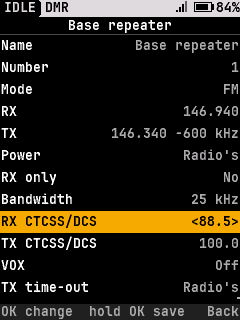
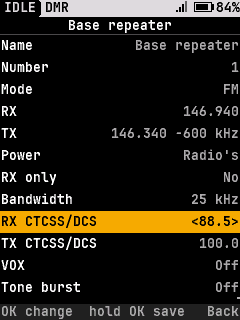
FM channels: a per-channel 1750 Hz tone burst (#462)
A per-channel option for the 1750 Hz tone burst, for FM repeaters that
open on it (#399). With **Tone burst** on, each PTT key-up on that
channel starts with a 1 s burst, then the mic. With it off, the channel
behaves as before. The side key from #417 still works on any FM channel.

## What changed

- **Codeplug:** bit 6 of SFR byte B (0x2A) in the channel record. It is
read and written without the SFR flag, so it doesn't disturb SFR
channels.
- **Radio:** `channel_burst()` runs on the first key-up of a TX. It
skips VFO, DMR, hotspot mode, a board with no `tx_tone`, or a burst
already running. Releasing PTT during the burst unkeys. If the radio
refuses the tone, it plays the error beep and TX continues.
- **Menu:** a **Tone burst** On/Off row under VOX on FM channels, behind
`CONFIG_FM_TX_TONES`. The gallery PNG for the screen is updated.
- **Web editor:** a "1750 Hz Tone Burst" checkbox, plus CSV, the qdmr
export note, and the stock importers.
- **Debug link:** `ch.tone_burst` in the view.
- **Docs:** radio-features 3.3, open-firmware-cps 7.3.3 and 9, and user
pages 04, 07, 08 and 17.
- **Translations:** es and it, for the radio and the site.

## Tests

- **Host:** `test_channel_burst` covers off by default, the burst and
then the mic, one burst per key-up, release during the burst, a refused
tone (one error beep), and never on DMR. A codeplug round trip keeps the
SFR bits.
- **Site:** 609 pass, 0 fail.
[…]

Changed region(s): [[0.0292, 0.875, 0.3792, 0.9375], [0.7583, 0.875, 0.9917, 0.9375]]

diff --git a/site/static/js/codeplug/model.js b/site/static/js/codeplug/model.js
@@ -124,7 +124,7 @@ function same(a, b, keys) {
 const CHANNEL_KEYS = [
 	"name", "rxHz", "txHz", "mode", "power", "tot", "rxTone", "txTone", "bw", "rxOnly", "allSkip", "zoneSkip", "vox",
 	"squelch", "colorCode", "timeslot", "contact", "rxList", "aprs", "dmrId", "noBeep", "noEco", "dmo", "roam",
-	"aliasTs1", "aliasTs2", "useLocation", "lat", "lon", "sfr", "sfrA", "sfrB",
+	"aliasTs1", "aliasTs2", "useLocation", "lat", "lon", "sfr", "sfrA", "sfrB", "toneBurst",
 ];
 
 function flatChannel(c) {
@@ -240,7 +240,7 @@ export function newChannel(fields = {}) {
 		txTone: "", bw: 12.5, rxOnly: false, allSkip: false, zoneSkip: false, vox: false, squelch: 0, colorCode: 1,
 		timeslot: 1, contact: null, rxList: null, aprs: null, dmrId: 0, noBeep: false, noEco: false, dmo: false,
 		roam: false, aliasTs1: 0, aliasTs2: 0, useLocation: false, lat: 0, lon: 0, sfr: false, sfrA: 0, sfrB: 0,
-		...fields,
+		toneBurst: false, ...fields,
 	};
 }
 

diff --git a/site/static/js/codeplug/qdmr.js b/site/static/js/codeplug/qdmr.js
@@ -277,7 +277,7 @@ export function importQdmr(m, yamlText) {
 			rxList: null, aprs: null, dmrId: 0, noBeep: o.beep === false, noEco: o.powerSave === false, dmo: false,
 			roam: false, aliasTs1: Math.max(0, ALIAS.indexOf(text(o.talkerAliasTS1))),
 			aliasTs2: Math.max(0, ALIAS.indexOf(text(o.talkerAliasTS2))), useLocation: !!loc, lat: loc ? loc.lat : 0,
-			lon: loc ? loc.lon : 0, sfr: false, sfrA: 0, sfrB: 0,
+			lon: loc ? loc.lon : 0, sfr: false, sfrA: 0, sfrB: 0, toneBurst: false,
 		};
 		if (v.scanList != null) note("scan_lists");
 		if (dmr) {
@@ -413,6 +413,7 @@ export function exportQdmr(m) {
 		};
 		if (c.useLocation) note("location_rounded");
 		if (c.sfr || c.sfrA || c.sfrB) note("sfr");
+		if (c.toneBurst && c.mode !== "dmr") note("tone_burst");
 		const powerName = Object.keys(POWER).find((k) => POWER[k] === c.power);
 		if (c.power && !powerName) note("power_level");
 		const common = {

diff --git a/site/static/js/codeplug/records.js b/site/static/js/codeplug/records.js
@@ -95,7 +95,8 @@ export function decodeChannel(r) {
 		lon: getCoord(r[0x24], r[0x1F], r[0x1E]),
 		sfr: (l1 & 0x02) !== 0,
 		sfrA: r[0x25],
-		sfrB: r[0x2A],
+		sfrB: r[0x2A] & ~0x40,
+		toneBurst: r[0x2A] !== 0xFF && (r[0x2A] & 0x40) !== 0,	// FM: SFR byte B bit 6, read without the SFR flag (7.3.3); 0xFF = not set
 	};
 }
 
@@ -139,7 +140,8 @@ export function encodeChannel(c, r) {
 		r[0x24] = oh; r[0x1F] = om; r[0x1E] = ol;
 	}
 	r[0x25] = c.sfrA & 0xFF;
-	r[0x2A] = c.sfrB & 0xFF;
+	r[0x2A] = (c.sfrB & 0xBF) | (c.toneBurst ? 0x40 : 0);
+	if (r[0x2A] === 0xFF) r[0x2A] = 0xCF;	// 0xFF reads as not set: the unused bits 5-4 cleared (as the firmware)
 	return r;
 }
 

diff --git a/site/static/js/editor/views.js b/site/static/js/editor/views.js
@@ -259,6 +259,7 @@ export function channelForm(m, t) {
 		fm(txt("txTone", "editor.col.tx_tone", tone(t), (v) => v)),
 		fm(sel("squelch", "editor.col.squelch", () => [[0, t("editor.squelch.default")], ...[...Array(21).keys()].map((n) => [n + 1, String(n + 1)])])),
 		fm(chk("vox", "editor.col.vox")),
+		fm(chk("toneBurst", "editor.col.tone_burst")),
 		dmr({ group: t("editor.form.digital") }),
 		dmr(sel("colorCode", "editor.col.cc", () => [...Array(16).keys()].map((n) => [n, String(n)]))),
 		dmr(sel("timeslot", "editor.col.ts", () => [[1, "1"], [2, "2"]])),

diff --git a/site/static/js/codeplug/stock_tyt.js b/site/static/js/codeplug/stock_tyt.js
@@ -246,7 +246,7 @@ export function importStock(m, bytes, format) {
 			colorCode: dmr ? c.colorCode : 0, timeslot: dmr ? c.timeslot : 1,
 			contact: dmr ? contactOf.get(c.contact) || null : null, rxList: dmr ? listOf.get(c.rxList) || null : null,
 			aprs: null, dmrId: 0, noBeep: false, noEco: false, dmo: false, roam: false, aliasTs1: 0, aliasTs2: 0,
-			useLocation: false, lat: 0, lon: 0, sfr: false, sfrA: 0, sfrB: 0,
+			useLocation: false, lat: 0, lon: 0, sfr: false, sfrA: 0, sfrB: 0, toneBurst: false,
 		};
 		channelOf.set(c.index, x);
 		return x;

diff --git a/site/static/js/codeplug/stock_baofeng.js b/site/static/js/codeplug/stock_baofeng.js
@@ -274,7 +274,7 @@ export function importStock(m, bytes) {
 			colorCode: dmr ? c.colorCode : 0, timeslot: dmr ? c.timeslot : 1,
 			contact: dmr ? contactOf.get(c.contact) || null : null, rxList: dmr ? listOf.get(c.rxList) || null : null,
 			aprs: null, dmrId: 0, noBeep: false, noEco: false, dmo: false, roam: false, aliasTs1: 0, aliasTs2: 0,
-			useLocation: false, lat: 0, lon: 0, sfr: false, sfrA: 0, sfrB: 0,
+			useLocation: false, lat: 0, lon: 0, sfr: false, sfrA: 0, sfrB: 0, toneBurst: false,
 		};
 		channelOf.set(c.index, x);
 		return x;

diff --git a/site/static/js/codeplug/csv.js b/site/static/js/codeplug/csv.js
@@ -318,6 +318,7 @@ export const TABLES = {
 			c("All Skip", "allSkip", asBool, (r) => yesNo(r.allSkip), ["Scan Skip"]),
 			c("Zone Skip", "zoneSkip", asBool, (r) => yesNo(r.zoneSkip)),
 			c("VOX", "vox", asBool, (r) => yesNo(r.vox)),
+			c("Tone Burst", "toneBurst", asBool, (r) => yesNo(r.toneBurst), ["1750 Hz"]),
 			c("No Beep", "noBeep", asBool, (r) => yesNo(r.noBeep)),
 			c("No Eco", "noEco", asBool, (r) => yesNo(r.noEco)),
 			c("DMO", "dmo", asBool, (r) => yesNo(r.dmo)),

diff --git a/core/ui/ui_menus.c b/core/ui/ui_menus.c
@@ -2273,7 +2273,7 @@ static const ui_scr_def_t chlist_screen = {
 // Without CONFIG_CHANNEL_EDIT the rows are read only and OK goes to the channel
 
 enum { CE_NAME, CE_NUMBER, CE_MODE, CE_RX, CE_TX, CE_POWER, CE_RX_ONLY, CE_BW, CE_RX_TONE, CE_TX_TONE, CE_VOX,
-       CE_CC, CE_TS, CE_CONTACT, CE_LIST, CE_ID, CE_DMO, CE_BEEP, CE_ALIAS1, CE_ALIAS2, CE_TOT, CE_SCAN, CE_ECO,
+       CE_BURST, CE_CC, CE_TS, CE_CONTACT, CE_LIST, CE_ID, CE_DMO, CE_BEEP, CE_ALIAS1, CE_ALIAS2, CE_TOT, CE_SCAN, CE_ECO,
        CE_ZONES, CE_GO, CE_SHARE, CE_SAVE, CE_SAVE_NEW, CE_COUNT, CE_NONE = 0xFF };
 
 static channel_t ced_ch;		// what the screen shows (the working copy when editing)
@@ -2309,6 +2309,7 @@ static const struct { uint8_t off, len, bit; } ced_fields[CE_ZONES] = {
 	[CE_NAME] = CE_FIELD(name), [CE_MODE] = CE_FIELD(mode), [CE_RX] = CE_FIELD(rx_hz), [CE_TX] = CE_FIELD(tx_hz),
 	[CE_POWER] = CE_FIELD(power), [CE_RX_ONLY] = CE_FIELD(rx_only), [CE_BW] = CE_FIELD(bw),
 	[CE_RX_TONE] = CE_FIELD(rx_tone), [CE_TX_TONE] = CE_FIELD(tx_tone), [CE_VOX] = CE_FIELD(vox),
+	[CE_BURST] = CE_FIELD(tone_burst),
 	[CE_CC] = CE_FIELD(color_code), [CE_TS] = CE_FIELD(timeslot), [CE_CONTACT] = CE_FIELD(contact),
 	[CE_LIST] = CE_FIELD(listen_list), [CE_ID] = CE_FIELD(dmr_id), [CE_DMO] = CE_FIELD(dmo),
 	[CE_BEEP] = CE_FIELD(no_beep), [CE_ALIAS1] = { offsetof(channel_t, alias_tx), 1, CODEPLUG_ALIAS_TS1_TEXT },
@@ -2390,10 +2391,14 @@ static void ced_build(void)
 #endif
 	ced_n = 0;
 	for (uint8_t r = 0; r < CE_COUNT; r++) {
-		bool fm_only = r == CE_BW || r == CE_RX_TONE || r == CE_TX_TONE || r == CE_VOX;
+		bool fm_only = r == CE_BW || r == CE_RX_TONE || r == CE_TX_TONE || r == CE_VOX || r == CE_BURST;
 		bool dmr_only = r >= CE_CC && r <= CE_ALIAS2;
 		bool tone = r == CE_RX_TONE || r == CE_TX_TONE;
 		if ((fm_only && dmr) || (tone && listen) || (dmr_only && !dmr) || (r == CE_MODE && !CONFIG_DMR))
+			continue;
+		// The radio core skips the burst on a board with no TX tone, so no row for it there (a host board
+		// without a radio keeps the row)
+		if (r == CE_BURST && (!CONFIG_FM_TX_TONES || (board.radio != NULL && board.radio->tx_tone == NULL)))
 			continue;
 		if ((r == CE_ZONES || r == CE_GO || r == CE_SHARE || r == CE_SAVE_NEW) && fresh)
 			continue;
@@ -2532,7 +2537,8 @@ static int32_t ced_val_or(int32_t stored)
 static void chinfo_item(uint16_t i, ui_item_t *it)
 {
 	static const char *const labels[CE_COUNT] = { TRN("Name"), TRN("Number"), TRN("Mode"), "RX", "TX", TRN("Power"),
-		TRN("RX only"), TRN("Bandwidth"), TRN("RX CTCSS/DCS"), TRN("TX CTCSS/DCS"), "VOX", TRN("Color code"),
+		TRN("RX only"), TRN("Bandwidth"), TRN("RX CTCSS/DCS"), TRN("TX CTCSS/DCS"), "VOX", TRN("Tone burst"),
+		TRN("Color code"),
 		TRN("Timeslot"), TRN("TX contact"), TRN("RX group list"), TRN("Own ID"), TRN("Direct mode"),
 		TRN("Talk permit beeps"), TRN("Talker alias TS1"), TRN("Talker alias TS2"), TRN("TX time-out"), TRN("Scan"),
 		TRN("Battery saver"), TRN("Zones"), TRN("Tune to this ch"), TRN(GLYPH_SHARE " Share channel to..."),
@@ -2633,6 +2639,9 @@ static void chinfo_item(uint16_t i, ui_item_t *it)
 	}
 	case CE_VOX:
 		sb_onoff(&b, ch->vox);
+		break;
+	case CE_BURST:
+		sb_onoff(&b, ch->tone_burst);
 		break;
 	case CE_CC:
 		sb_u32(&b, editing ? (uint32_t)ced_val_or(ch->color_code) : ch->color_code, 1);
@@ -3018,6 +3027,7 @@ static void chinfo_select(uint16_t i, bool hold)
 		ced_len = 0;
 		break;
 	case CE_VOX: c->vox = !c->vox; break;
+	case CE_BURST: c->tone_burst = !c->tone_burst; break;
 	case CE_CC:
 	case CE_TOT:
 		ced_edit = r;

diff --git a/tests/host/radioFeaturesTest.c b/tests/host/radioFeaturesTest.c
@@ -2644,6 +2644,85 @@ static void test_roger_burst(void)
 	}
 }
 
+// A channel with its tone burst on: each PTT key-up opens with one timed burst, then the microphone (channel_t.tone_burst)
+static void test_channel_burst(void)
+{
+	start();
+	// Off (the default): PTT keys with no tone
+	req(RREQ_PTT, 1);
+	CHECK(sm.view.state == RS_TX && !sm.view.tone_burst && hw.tone_hz == 0);
+	req(RREQ_PTT, 0);
+	run(300);
+	CHECK(sm.view.state == RS_IDLE);
+
+	chans[1].tone_burst = true;
+	req(RREQ_ZONE_POS, 0);
+	run(50);
+	CHECK(sm.view.ch.tone_burst);
+	int tx = hw.tx_calls;
+	req(RREQ_PTT, 1);
+	CHECK(sm.view.state == RS_TX && sm.ptt && sm.view.tone_burst && hw.tone_hz == RADIO_BURST_HZ && hw.tx_calls == tx + 1);
+	CHECK(!sm.burst_keyed);	// the PTT owns the carrier, not the burst
+	run(RADIO_BURST_MIN_MS - 20);
+	CHECK(sm.view.tone_burst && hw.tone_hz == RADIO_BURST_HZ);
+	run(40);
+	CHECK(sm.view.state == RS_TX && sm.ptt && !sm.view.tone_burst && hw.tone_hz == 0);	// the microphone follows
+	run(2000);
+	CHECK(sm.view.state == RS_TX && hw.tone_hz == 0);	// once per key-up
+	req(RREQ_PTT, 0);
+	run(300);
+	CHECK(sm.view.state == RS_IDLE);
+	// Released during the burst: unkeys at once, the tone with it
+	req(RREQ_PTT, 1);
+	run(100);
+	CHECK(sm.view.tone_burst);
+	req(RREQ_PTT, 0);
+	CHECK(sm.view.state == RS_IDLE && !sm.view.tone_burst && hw.tone_hz == 0 && !sm.burst_timed);
+	run(300);
+	// The next key-up has it again
+	req(RREQ_PTT, 1);
+	CHECK(sm.view.tone_burst && hw.tone_hz == RADIO_BURST_HZ);
+	req(RREQ_PTT, 0);
+	run(300);
+
+	// The tone refused: the error beep warns that the repeater may not open, and the PTT's transmission goes on
+	hw.has_tx_tone = false;
+	beep_stats_t b0, b1;
+	beep_get_stats(&b0);
+	req(RREQ_PTT, 1);
+	CHECK(sm.view.state == RS_TX && sm.ptt && !sm.view.tone_burst);
+	beep_get_stats(&b1);
+	CHECK(b1.played == b0.played + 1);
+	req(RREQ_PTT, 0);
+	run(300);
+	hw.has_tx_tone = true;
+
+	// Host audio (USRP): the host sends its own tones, so no burst over them
+	tap_hw = (typeof(tap_hw)){ .ok = true };
+	int16_t pcm[AUDIO_BLOCK_SAMPLES] = { 0 };
+	req(RREQ_PTT, 2);
+	CHECK(sm.view.state == RS_TX && sm.host_audio && !sm.view.tone_burst && hw.tone_hz == 0);
+	for (int i = 0; i < 10; i++) {
+		audio_mux_host_push(pcm, AUDIO_BLOCK_SAMPLES);
+		run(20);
+	}
+	CHECK(sm.view.state == RS_TX && !sm.view.tone_burst && hw.tone_hz == 0);
+	req(RREQ_PTT, 0);
+	run(300);
+	CHECK(sm.view.state == RS_IDLE);
+
+	// Never on DMR, whatever the record holds
+	chans[6].tone_burst = true;
+	req(RREQ_ZONE_POS, 5);
+	run(50);
+	req(RREQ_PTT, 1);
+	run(50);
+	CHECK(!sm.view.tone_burst && hw.tone_hz == 0);
+	req(RREQ_PTT, 0);
+	run(1000);
+	chans[1].tone_burst = chans[6].tone_burst = false;
+}
+
 // The side key owns a minimum duration; the debug link still has explicit on/off control.
 static void test_burst_key(void)
 {
@@ -3515,6 +3594,7 @@ int main(void)
 	test_tx_limit();
 	test_roger_burst();
 	test_burst_key();
+	test_channel_burst();
 	test_burst_deadlines();
 	test_burst_key_host_overlap();
 	test_burst_key_denied();

diff --git a/tests/host/aprsRadioTest.c b/tests/host/aprsRadioTest.c
@@ -37,6 +37,7 @@ static struct {
 	uint8_t tx_power;
 	int tx_off_calls;
 	bool keyed;
+	uint16_t tone_hz;	// the TX tone in force (0 = the microphone)
 	uint8_t noise_on_aprs;	// noise reading on 144.390 (low = a carrier)
 	// AFSK
 	uint8_t tones[600];
@@ -91,9 +92,14 @@ static void r_status(radio_status_t *st)
 	st->tone_ok = true;
 }
 static void r_audio(bool on) { (void)on; }
+static bool r_tone(uint16_t hz)
+{
+	hw.tone_hz = hz;
+	return true;
+}
 static const hal_radio_t fake_radio = {
 	.init = r_init, .set_mode = r_set_mode, .rx = r_rx, .tx = r_tx, .tx_off = r_tx_off, .status = r_status,
-	.audio = r_audio,
+	.audio = r_audio, .tx_tone = r_tone,
 };
 
 static void p_led(uint8_t which, bool on) { (void)which; (void)on; }
@@ -527,6 +533,33 @@ static void test_ptt_cuts(void)
 	CHECK(sm.view.state == RS_IDLE && hw.rx_hz == CH_HZ);
 	run(20u * 1000u);	// the beacon goes again later
 	CHECK(hw.starts >= 1);
+}
+
+// PTT over a beacon on a channel with its tone burst on: the beacon gives way and the fresh key-up opens with the burst
+// (the beacon's RS_TX is the radio's own transmission, not the user's)
+static void test_ptt_cuts_burst(void)
+{
+#if CONFIG_FM_TX_TONES
+	reset();
+	aprs_set_test_call("Q1TST");
+	configure(60, false);
+	chan.tone_burst = true;
+	req(RREQ_ZONE_POS, 0);
+	run(50);
+	CHECK(sm.view.ch.tone_burst);
+	run(59u * 1000u);
+	CHECK(wait_start(1, 5000));
+	CHECK(sm.view.state == RS_TX && sm.view.tx_auto && hw.tx_hz == APRS_HZ && hw.tone_hz == 0);
+	req(RREQ_PTT, 1);
+	CHECK(sm.view.state == RS_TX && !sm.view.tx_auto && hw.tx_hz == CH_HZ);
+	CHECK(sm.view.tone_burst && hw.tone_hz == RADIO_BURST_HZ);
+	run(RADIO_BURST_MIN_MS + 20);
+	radio_sm_tick(&sm, now);	// the burst's timer runs on the tick, which run() doesn't drive
+	CHECK(sm.view.state == RS_TX && !sm.view.tone_burst && hw.tone_hz == 0);	// the microphone follows
+	req(RREQ_PTT, 0);
+	run(300);
+	CHECK(sm.view.state == RS_IDLE && hw.rx_hz == CH_HZ);
+#endif
 }
 
 static void test_not_amateur(void)
@@ -1486,6 +1519,7 @@ int main(void)
 	test_busy_channel();
 	test_bcast_channel();
 	test_ptt_cuts();
+	test_ptt_cuts_burst();
 	test_not_amateur();
 	test_manual_and_ptt_trigger();
 	test_tx_power();

diff --git a/tests/host/codeplugEditTest.c b/tests/host/codeplugEditTest.c
@@ -46,7 +46,8 @@ static bool same_channel(const channel_t *a, const channel_t *b)
 	       a->tx_tone.type == b->tx_tone.type && a->tx_tone.value == b->tx_tone.value && a->power == b->power &&
 	       a->rx_only == b->rx_only && a->color_code == b->color_code && a->timeslot == b->timeslot &&
 	       a->contact == b->contact && a->listen_list == b->listen_list && a->dmr_id == b->dmr_id && a->dmo == b->dmo &&
-	       a->vox == b->vox && a->scan_skip == b->scan_skip && a->no_beep == b->no_beep && a->no_eco == b->no_eco;
+	       a->vox == b->vox && a->scan_skip == b->scan_skip && a->no_beep == b->no_beep && a->no_eco == b->no_eco &&
+	       a->tone_burst == b->tone_burst;
 }
 
 static channel_t make(const char *name, uint32_t rx, uint32_t tx)
@@ -137,6 +138,29 @@ static void test_encode(void)
 	codeplug_openfw_encode(&d, r);
 	CHECK((r[0x33] & 0x60) == 0 && (r[0x26] & 0x62) == 0x22);
 	CHECK(codeplug_openfw_decode(r, &d) && !d.vox && !d.scan_skip && !d.no_beep && d.no_eco);
+	// The FM tone burst is SFR byte B bit 6 (open-firmware-cps.md 7.3.3): set and cleared alone, the SFR bits kept
+	CHECK(!d.tone_burst);
+	d.tone_burst = true;
+	codeplug_openfw_encode(&d, r);
+	CHECK(r[0x2A] == 0xC5 && r[0x25] == 0x0B && (r[0x26] & 0x02));
+	CHECK(codeplug_openfw_decode(r, &d) && d.tone_burst && d.sfr_b == 0xC5);
+	d.tone_burst = false;
+	codeplug_openfw_encode(&d, r);
+	CHECK(r[0x2A] == 0x85);
+	// Read without the SFR flag too: a channel with no SFR has the burst
+	r[0x26] &= (uint8_t)~0x02u;
+	r[0x2A] = 0x40;
+	CHECK(codeplug_openfw_decode(r, &d) && d.tone_burst && d.sfr_b == 0);
+	// A byte a writer filled with 0xFF is "not set", not a burst on every channel; turning the burst on there is
+	// never written as 0xFF again
+	r[0x2A] = 0xFF;
+	CHECK(codeplug_openfw_decode(r, &d) && !d.tone_burst);
+	codeplug_openfw_encode(&d, r);
+	CHECK(r[0x2A] == 0xBF);
+	r[0x2A] = 0xFF;
+	d.tone_burst = true;
+	codeplug_openfw_encode(&d, r);
+	CHECK(r[0x2A] == 0xCF && codeplug_openfw_decode(r, &d) && d.tone_burst);
 }
 
 static void test_materialize(void)

diff --git a/core/codeplug/codeplug.c b/core/codeplug/codeplug.c
@@ -53,7 +53,8 @@ static uint32_t fl_base = DEFAULT_FLASH_BASE;
 #define CH_SFR_A	0x25u	// SFR byte A (ours, open-firmware-cps.md 7.3.3)
 #define CH_LFLAG1	0x26u
 #define CH_DMR_ID	0x27u
-#define CH_SFR_B	0x2Au	// SFR byte B (ours)
+#define CH_SFR_B	0x2Au	// SFR byte B (ours); bit 6 the FM tone burst, read without the SFR flag
+#define SFRB_TONE_BURST	0x40u
 #define CH_RX_GROUP	0x2Bu
 #define CH_CC		0x2Cu
 #define CH_CONTACT	0x2Eu
@@ -667,6 +668,7 @@ bool codeplug_openfw_decode(const uint8_t *r, channel_t *out)
 	out->no_beep = (r[CH_LFLAG1] & LFLAG1_NO_BEEP) != 0;
 	out->no_eco = (r[CH_LFLAG1] & LFLAG1_NO_ECO) != 0;
 	out->roam = (r[CH_LFLAG1] & LFLAG1_ROAM) != 0;
+	out->tone_burst = r[CH_SFR_B] != 0xFFu && (r[CH_SFR_B] & SFRB_TONE_BURST) != 0;	// 0xFF: a writer that fills unknown bytes
 	if (r[CH_LFLAG1] & LFLAG1_SFR) {
 		out->sfr_flag1 = LFLAG1_SFR;
 		out->sfr_a = r[CH_SFR_A];
@@ -712,6 +714,12 @@ void codeplug_openfw_encode(const channel_t *ch, uint8_t *r)
 	r[CH_LFLAG1] = (uint8_t)((r[CH_LFLAG1] & ~(LFLAG1_ID | LFLAG1_NO_BEEP | LFLAG1_NO_ECO | LFLAG1_DMO)) |
 				 (ch->dmr_id != 0 ? LFLAG1_ID : 0) | (ch->no_beep ? LFLAG1_NO_BEEP : 0) |
 				 (ch->no_eco ? LFLAG1_NO_ECO : 0) | (ch->dmo ? LFLAG1_DMO : 0));
+	// The rest of SFR byte B is kept as read (the SFR fields are read only here). Never 0xFF, which reads as "not
+	// set": with the burst on over a byte a writer filled, the unused bits 5-4 are cleared
+	r[CH_SFR_B] = (uint8_t)((r[CH_SFR_B] & ~SFRB_TONE_BURST) | (ch->tone_burst ? SFRB_TONE_BURST : 0));
+	if (r[CH_SFR_B] == 0xFFu) {
+		r[CH_SFR_B] = 0xCFu;
+	}
 	uint32_t tot = (ch->tot_s + 14u) / 15u;
 	r[CH_TOT] = (uint8_t)(tot > 255u ? 255u : tot);
 	// Each timeslot's talker alias field: its text bit and its position (APRS) bit
